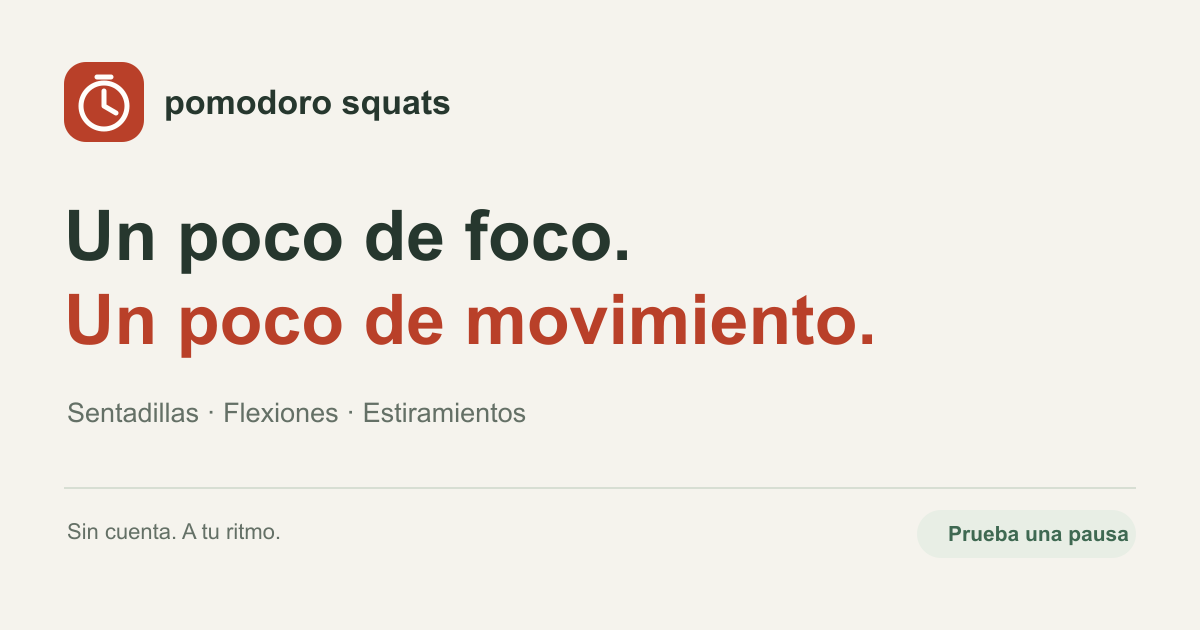
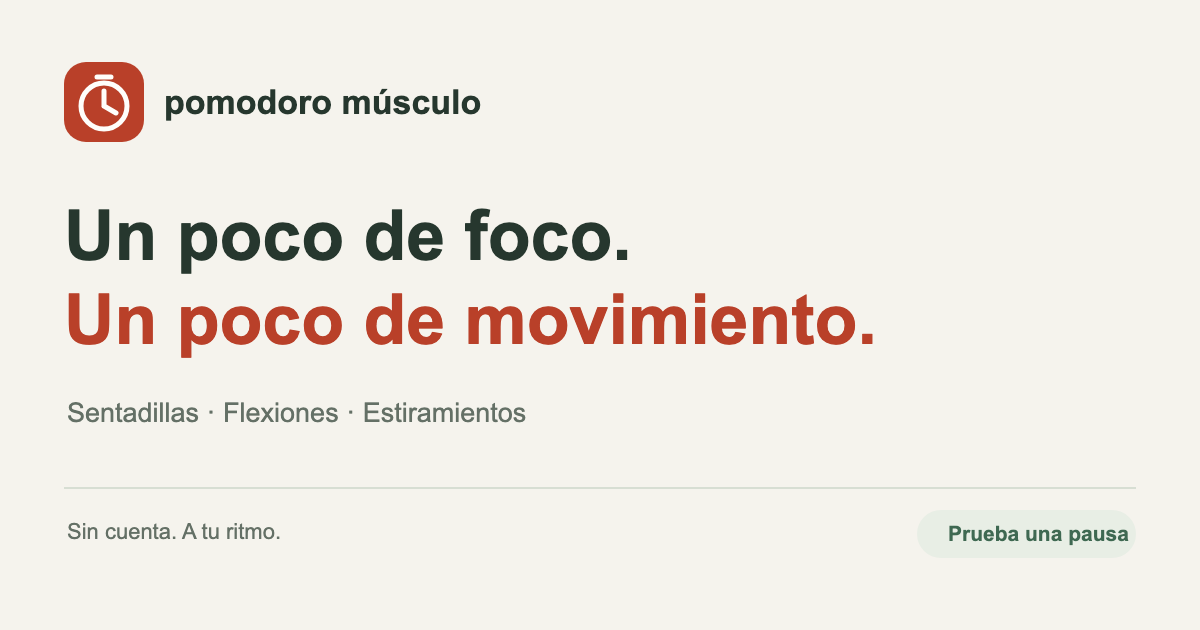
Renombra la app a Pomodoro Músculo

diff --git a/app.js b/app.js
@@ -86,7 +86,7 @@ function renderTimer(){
   $('focusCount').textContent=`${pomos[dayKey()]||0} ${pomos[dayKey()]===1?'bloque':'bloques'} hoy`;
   $('focusMinutes').textContent=`${focusMinutes[dayKey()]||0} min de foco registrados`;
   document.body.classList.toggle('is-break',isBreak);
-  document.title=timer.running?`${fmt(rem)} · ${isBreak?'Pausa':'Foco'} · Pomodoro Squats`:'Pomodoro Squats';
+  document.title=timer.running?`${fmt(rem)} · ${isBreak?'Pausa':'Foco'} · Pomodoro Músculo`:'Pomodoro Músculo';
 }
 function startTimer(){store.set('ps.welcomed',true);$('welcomeCard').hidden=true;unlockAudio();timer.endAt=Date.now()+timer.remaining*1000;timer.running=true;saveTimer();if(rt.r&&rt.timerPaused){rt.timerPaused=false;rt.paused=false;rt.lastAt=Date.now();renderStep();}renderTimer();}
 function pauseTimer(){if(timer.running&&Date.now()>=timer.endAt){updateTimer();return;}timer.remaining=remaining();timer.running=false;saveTimer();if(rt.r&&!rt.paused){tickRoutine();rt.paused=true;rt.timerPaused=true;renderStep();}renderTimer();}
@@ -339,12 +339,12 @@ $('manualForm').onsubmit=e=>{e.preventDefault();if(!$('manualForm').reportValidi
 $('clearExamples').onclick=()=>{toast(saveLog(log.filter(e=>!e.example))?'Ejemplos eliminados':'No se pudo guardar el cambio. Inténtalo de nuevo.');};
 $('exportBtn').onclick=()=>{
   persistExercise();persistRoutine();const backupLog=[...log];for(const draft of [...recoveryPending,exerciseEntry(),routineEntry()])if(draft){const i=backupLog.findIndex(e=>e.id===draft.id);if(i>=0)backupLog[i]=draft;else backupLog.push(draft);}
-  const data={app:'pomodoro-squats',version:3,routines:customRoutines,exported:new Date().toISOString(),settings,pomos,focusMinutes,log:backupLog};const a=document.createElement('a');a.href=URL.createObjectURL(new Blob([JSON.stringify(data,null,2)],{type:'application/json'}));a.download=`pomodoro-squats-${dayKey()}.json`;a.click();setTimeout(()=>URL.revokeObjectURL(a.href),1000);$('backupStatus').textContent='Respaldo exportado con tu historial y el movimiento pendiente.';
+  const data={app:'pomodoro-squats',version:3,routines:customRoutines,exported:new Date().toISOString(),settings,pomos,focusMinutes,log:backupLog};const a=document.createElement('a');a.href=URL.createObjectURL(new Blob([JSON.stringify(data,null,2)],{type:'application/json'}));a.download=`pomodoro-musculo-${dayKey()}.json`;a.click();setTimeout(()=>URL.revokeObjectURL(a.href),1000);$('backupStatus').textContent='Respaldo exportado con tu historial y el movimiento pendiente.';
 };
 $('importBtn').onclick=()=>$('importFile').click();
 $('importFile').onchange=async()=>{
   const file=$('importFile').files[0];if(!file)return;
-  try{if(file.size>10*1024*1024)throw Error('too-large');const d=parseBackup(JSON.parse(await file.text()));const ids=new Set(log.map(e=>e.id)),fresh=d.log.filter(e=>!ids.has(e.id));const routineIds=new Set(customRoutines.map(r=>r.id)),newRoutines=d.routines.filter(r=>!routineIds.has(r.id));if(customRoutines.length+newRoutines.length>ROUTINE_LIMIT)throw Error('too-many-routines');if(newRoutines.length){if(!store.set('ps.routines',[...customRoutines,...newRoutines]))throw Error('storage');customRoutines.push(...newRoutines);renderRoutinePicker();}log=cleanLog([...log,...fresh]);for(const [k,v] of Object.entries(d.pomos))pomos[k]=Math.max(pomos[k]||0,v);for(const [k,v] of Object.entries(d.focusMinutes))focusMinutes[k]=Math.max(focusMinutes[k]||0,v);store.set('ps.pomos',pomos);store.set('ps.focusMinutes',focusMinutes);saveLog();renderTimer();$('backupStatus').textContent=`Importados ${fresh.length} registros y ${newRoutines.length} rutinas nuevas. Tus ajustes y metas se conservan.`;toast(`Importados ${fresh.length} registros y ${newRoutines.length} rutinas`);}catch{$('backupStatus').textContent='No se importó ningún dato. El archivo debe ser un respaldo válido de Pomodoro Squats, de hasta 10 MB.';toast('No se pudo importar. Revisa el archivo.');}finally{$('importFile').value='';}
+  try{if(file.size>10*1024*1024)throw Error('too-large');const d=parseBackup(JSON.parse(await file.text()));const ids=new Set(log.map(e=>e.id)),fresh=d.log.filter(e=>!ids.has(e.id));const routineIds=new Set(customRoutines.map(r=>r.id)),newRoutines=d.routines.filter(r=>!routineIds.has(r.id));if(customRoutines.length+newRoutines.length>ROUTINE_LIMIT)throw Error('too-many-routines');if(newRoutines.length){if(!store.set('ps.routines',[...customRoutines,...newRoutines]))throw Error('storage');customRoutines.push(...newRoutines);renderRoutinePicker();}log=cleanLog([...log,...fresh]);for(const [k,v] of Object.entries(d.pomos))pomos[k]=Math.max(pomos[k]||0,v);for(const [k,v] of Object.entries(d.focusMinutes))focusMinutes[k]=Math.max(focusMinutes[k]||0,v);store.set('ps.pomos',pomos);store.set('ps.focusMinutes',focusMinutes);saveLog();renderTimer();$('backupStatus').textContent=`Importados ${fresh.length} registros y ${newRoutines.length} rutinas nuevas. Tus ajustes y metas se conservan.`;toast(`Importados ${fresh.length} registros y ${newRoutines.length} rutinas`);}catch{$('backupStatus').textContent='No se importó ningún dato. El archivo debe ser un respaldo válido de Pomodoro Músculo, de hasta 10 MB.';toast('No se pudo importar. Revisa el archivo.');}finally{$('importFile').value='';}
 };
 document.addEventListener('keydown',e=>{
   if(e.repeat||e.target.closest?.('input,select,textarea,button,a,summary,[contenteditable="true"]')||e.metaKey||e.ctrlKey||e.altKey||$('settingsDialog').open||$('routineEditor').open||$('helpDialog').open||$('cameraSettingsDialog').open||$('routineDraftChoice').open||cameraGuide.active)return;

diff --git a/index.html b/index.html
@@ -6,17 +6,17 @@
 <meta name="theme-color" content="#bb432c">
 <meta name="robots" content="noindex,follow">
 <meta name="description" content="Bloques de foco y pausas con movimiento. Sentadillas, flexiones y estiramientos, a tu ritmo.">
-<title>Pomodoro Squats</title>
+<title>Pomodoro Músculo</title>
 <meta name="apple-mobile-web-app-capable" content="yes">
-<meta name="apple-mobile-web-app-title" content="Squats">
+<meta name="apple-mobile-web-app-title" content="Músculo">
 <meta name="apple-mobile-web-app-status-bar-style" content="default">
 <link rel="apple-touch-icon" sizes="180x180" href="icons/apple-touch-icon.png">
 <link rel="canonical" href="https://eduardosalomonm.github.io/pomodoro-squats/">
-<meta property="og:title" content="Pomodoro Squats · Foco y movimiento">
+<meta property="og:title" content="Pomodoro Músculo · Foco y movimiento">
 <meta property="og:description" content="Prueba una pausa con sentadillas, flexiones o estiramientos. Sin cuenta, a tu ritmo.">
 <meta property="og:type" content="website">
 <meta property="og:url" content="https://eduardosalomonm.github.io/pomodoro-squats/">
-<meta property="og:image" content="https://eduardosalomonm.github.io/pomodoro-squats/social-preview.png">
+<meta property="og:image" content="https://eduardosalomonm.github.io/pomodoro-squats/social-preview.png?v=0.7.1">
 <meta property="og:image:width" content="1200">
 <meta property="og:image:height" content="630">
 <link rel="manifest" href="manifest.webmanifest">
@@ -30,7 +30,7 @@
 <a class="skip-link" href="#main">Ir al temporizador</a>
 <div class="wrap">
   <header>
-    <a class="brand" href="./" aria-label="Pomodoro Squats, inicio"><span class="brand-mark" aria-hidden="true">p<span>·</span></span><span>pomodoro <b>squats</b></span></a>
+    <a class="brand" href="./" aria-label="Pomodoro Músculo, inicio"><span class="brand-mark" aria-hidden="true">p<span>·</span></span><span>pomodoro <b>músculo</b></span></a>
     <div class="row header-actions"><button id="shareBtn" class="ghost">Compartir</button><button id="settingsBtn" class="ghost">Ajustes</button></div>
   </header>
   <div class="intro"><div><p class="eyebrow">MENOS SILLA, MÁS ENERGÍA</p><h1>Un poco de foco.<br>Un poco de <span>movimiento.</span></h1></div><p class="intro-note">Haz espacio para ambas cosas.<br>Tu próxima pausa también cuenta.</p></div>

diff --git a/companion.js b/companion.js
@@ -18,7 +18,7 @@ export function initCompanion({store, toast, startTrial, beforeUpdate, hasSessio
     if (e.clientX < r.left || e.clientX > r.right || e.clientY < r.top || e.clientY > r.bottom) e.target.close();
   });
   $('helpDialog').addEventListener('close', () => { $('shareFallback').hidden = true; });
-  $('feedbackLink').href = `${ISSUES_URL}?title=${encodeURIComponent('Prueba de Pomodoro Squats')}&body=${encodeURIComponent(`Versión: ${VERSION}\nDispositivo y navegador (escríbelo aquí):\n\n¿Qué estabas intentando hacer?\n\n¿Qué ocurrió?\n\n¿Qué mejorarías?\n\nNo incluyas datos personales ni respaldos del historial.`)}`;
+  $('feedbackLink').href = `${ISSUES_URL}?title=${encodeURIComponent('Prueba de Pomodoro Músculo')}&body=${encodeURIComponent(`Versión: ${VERSION}\nDispositivo y navegador (escríbelo aquí):\n\n¿Qué estabas intentando hacer?\n\n¿Qué ocurrió?\n\n¿Qué mejorarías?\n\nNo incluyas datos personales ni respaldos del historial.`)}`;
 
   const copyLink = async () => {
     try {
@@ -34,7 +34,7 @@ export function initCompanion({store, toast, startTrial, beforeUpdate, hasSessio
   $('copyLinkBtn').onclick = copyLink;
   $('shareBtn').onclick = async () => {
     if (navigator.share) {
-      try { await navigator.share({title:'Pomodoro Squats', text:'Prueba una pausa con movimiento: sentadillas, flexiones y estiramientos.', url:PUBLIC_URL}); return; }
+      try { await navigator.share({title:'Pomodoro Músculo', text:'Prueba una pausa con movimiento: sentadillas, flexiones y estiramientos.', url:PUBLIC_URL}); return; }
       catch (e) { if (e.name === 'AbortError') return; }
     }
     await copyLink();

diff --git a/sw.js b/sw.js
@@ -1,5 +1,5 @@
 // A complete shell is cached before activation, so one release never mixes with another.
-const CACHE = 'pomodoro-squats-v0.7.0';
+const CACHE = 'pomodoro-squats-v0.7.1';
 const SHELL = ['./','index.html','styles.css','boot.js','session-guard.js','app.js','companion.js','release.js','core.js','pose-counter.js','calibration-model.js','camera-guide.js','camera-options.js','figure.js','routines.js','routine-model.js','routine-editor.js','manifest.webmanifest','icon.svg','icons/apple-touch-icon.png','icons/icon-192.png','icons/icon-512.png','icons/maskable-512.png'];
 const shellURLs = new Set(SHELL.map(path => new URL(path, self.registration.scope).href));
 self.addEventListener('install', event => event.waitUntil(

diff --git a/release.js b/release.js
@@ -1,3 +1,3 @@
-export const VERSION = '0.7.0';
+export const VERSION = '0.7.1';
 export const PUBLIC_URL = 'https://eduardosalomonm.github.io/pomodoro-squats/';
 export const ISSUES_URL = 'https://github.com/eduardosalomonm/pomodoro-squats/issues/new';

diff --git a/README.md b/README.md
@@ -1,4 +1,4 @@
-# Pomodoro Squats · Beta 0.7.0
+# Pomodoro Músculo · Beta 0.7.1
 
 Bloques de foco y pausas con movimiento: sentadillas, flexiones y estiramientos guiados. Sin cuenta; el historial se guarda en este navegador. El vídeo se procesa en el dispositivo.
 
@@ -24,6 +24,10 @@ Abre http://localhost:5180. Usa siempre la misma dirección y puerto: cada direc
 4. En Ayuda y privacidad están las instrucciones de instalación y el enlace para reportar problemas. Los comentarios de GitHub son públicos y requieren cuenta; no adjuntar respaldos personales.
 
 Esta beta incluye iconos PNG para Android y un icono específico para la pantalla de inicio de iPhone. La vista dedicada de ejercicio reúne cámara, contador, pausa y guardado en móvil. Incluye una imagen de presentación al compartir el enlace y evita indexación en buscadores mientras siga en beta.
+
+## Nuevo en la beta 0.7.1
+
+La app pasa a llamarse **Pomodoro Músculo** en la interfaz, la instalación móvil y las vistas previas al compartir. Se conserva la dirección pública y la compatibilidad con el historial, respaldos y versiones anteriores.
 
 ## Nuevo en la beta 0.7.0
 
